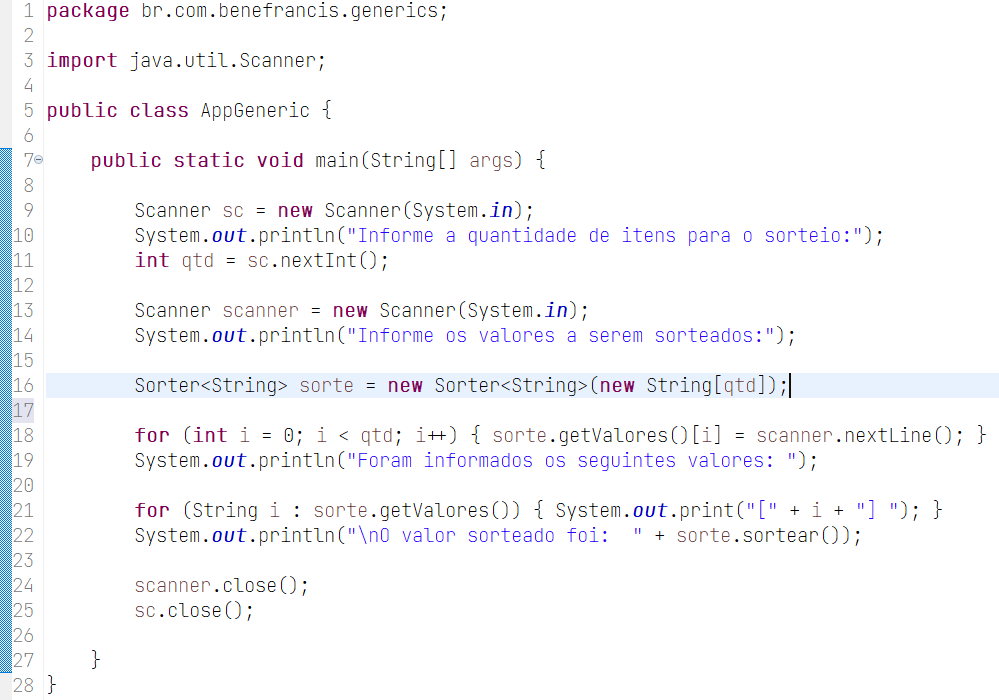
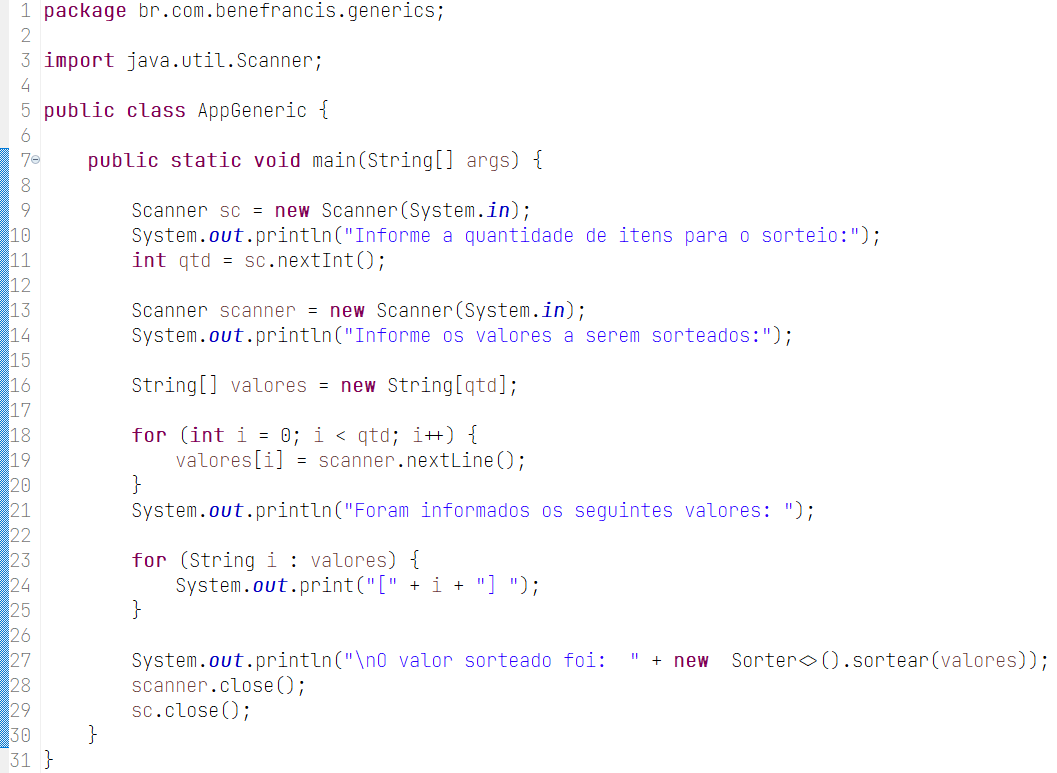
Refatorando a classe sorter

diff --git a/ADS/DDD/Aulas/Generics/src/br/com/benefrancis/generics/AppGeneric.java b/ADS/DDD/Aulas/Generics/src/br/com/benefrancis/generics/AppGeneric.java
@@ -13,16 +13,19 @@ public class AppGeneric {
 		Scanner scanner = new Scanner(System.in);
 		System.out.println("Informe os valores a serem sorteados:");
 
-		Sorter<String> sorte = new Sorter<String>(new String[qtd]);
-		
-		for (int i = 0; i < qtd; i++) { sorte.getValores()[i] = scanner.nextLine(); }
+		String[] valores = new String[qtd];
+
+		for (int i = 0; i < qtd; i++) {
+			valores[i] = scanner.nextLine();
+		}
 		System.out.println("Foram informados os seguintes valores: ");
-		
-		for (String i : sorte.getValores()) { System.out.print("[" + i + "] "); }
-		System.out.println("\nO valor sorteado foi:  " + sorte.sortear());
-		
+
+		for (String i : valores) {
+			System.out.print("[" + i + "] ");
+		}
+				
+		System.out.println("\nO valor sorteado foi:  " + new  Sorter<>().sortear(valores));
 		scanner.close();
 		sc.close();
-
 	}
 }

diff --git a/ADS/DDD/Aulas/Generics/src/br/com/benefrancis/generics/Sorter.java b/ADS/DDD/Aulas/Generics/src/br/com/benefrancis/generics/Sorter.java
@@ -4,18 +4,11 @@ import java.util.Random;
 
 public class Sorter<T> {
 
-	T[] valores;
-
-	public Sorter(T[] valores) {
+	public Sorter() {
 		super();
-		this.valores = valores;
 	}
 
-	public T[] getValores() {
-		return valores;
-	}
-
-	public T sortear() {
+	public T sortear(T[] valores) {
 		Random r = new Random();
 		return valores[r.nextInt(valores.length)];
 	}
